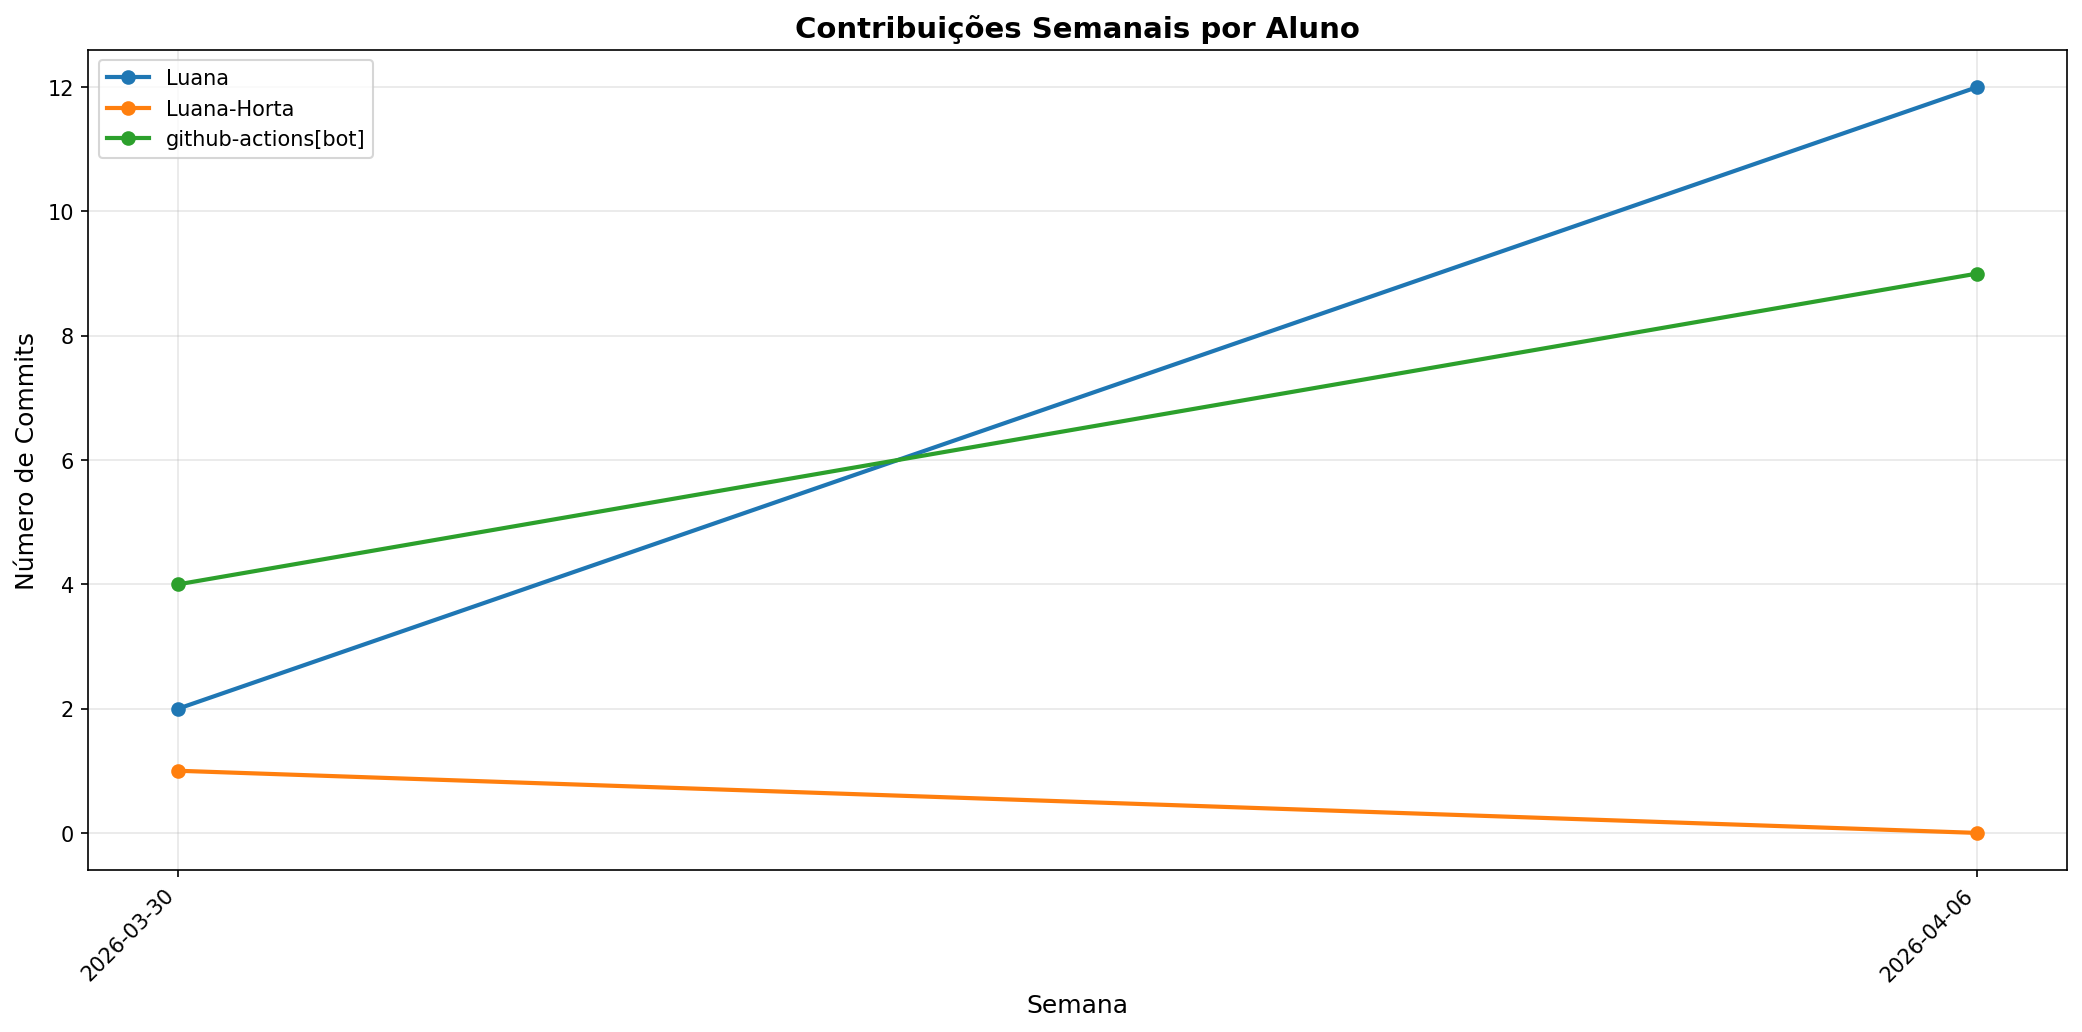
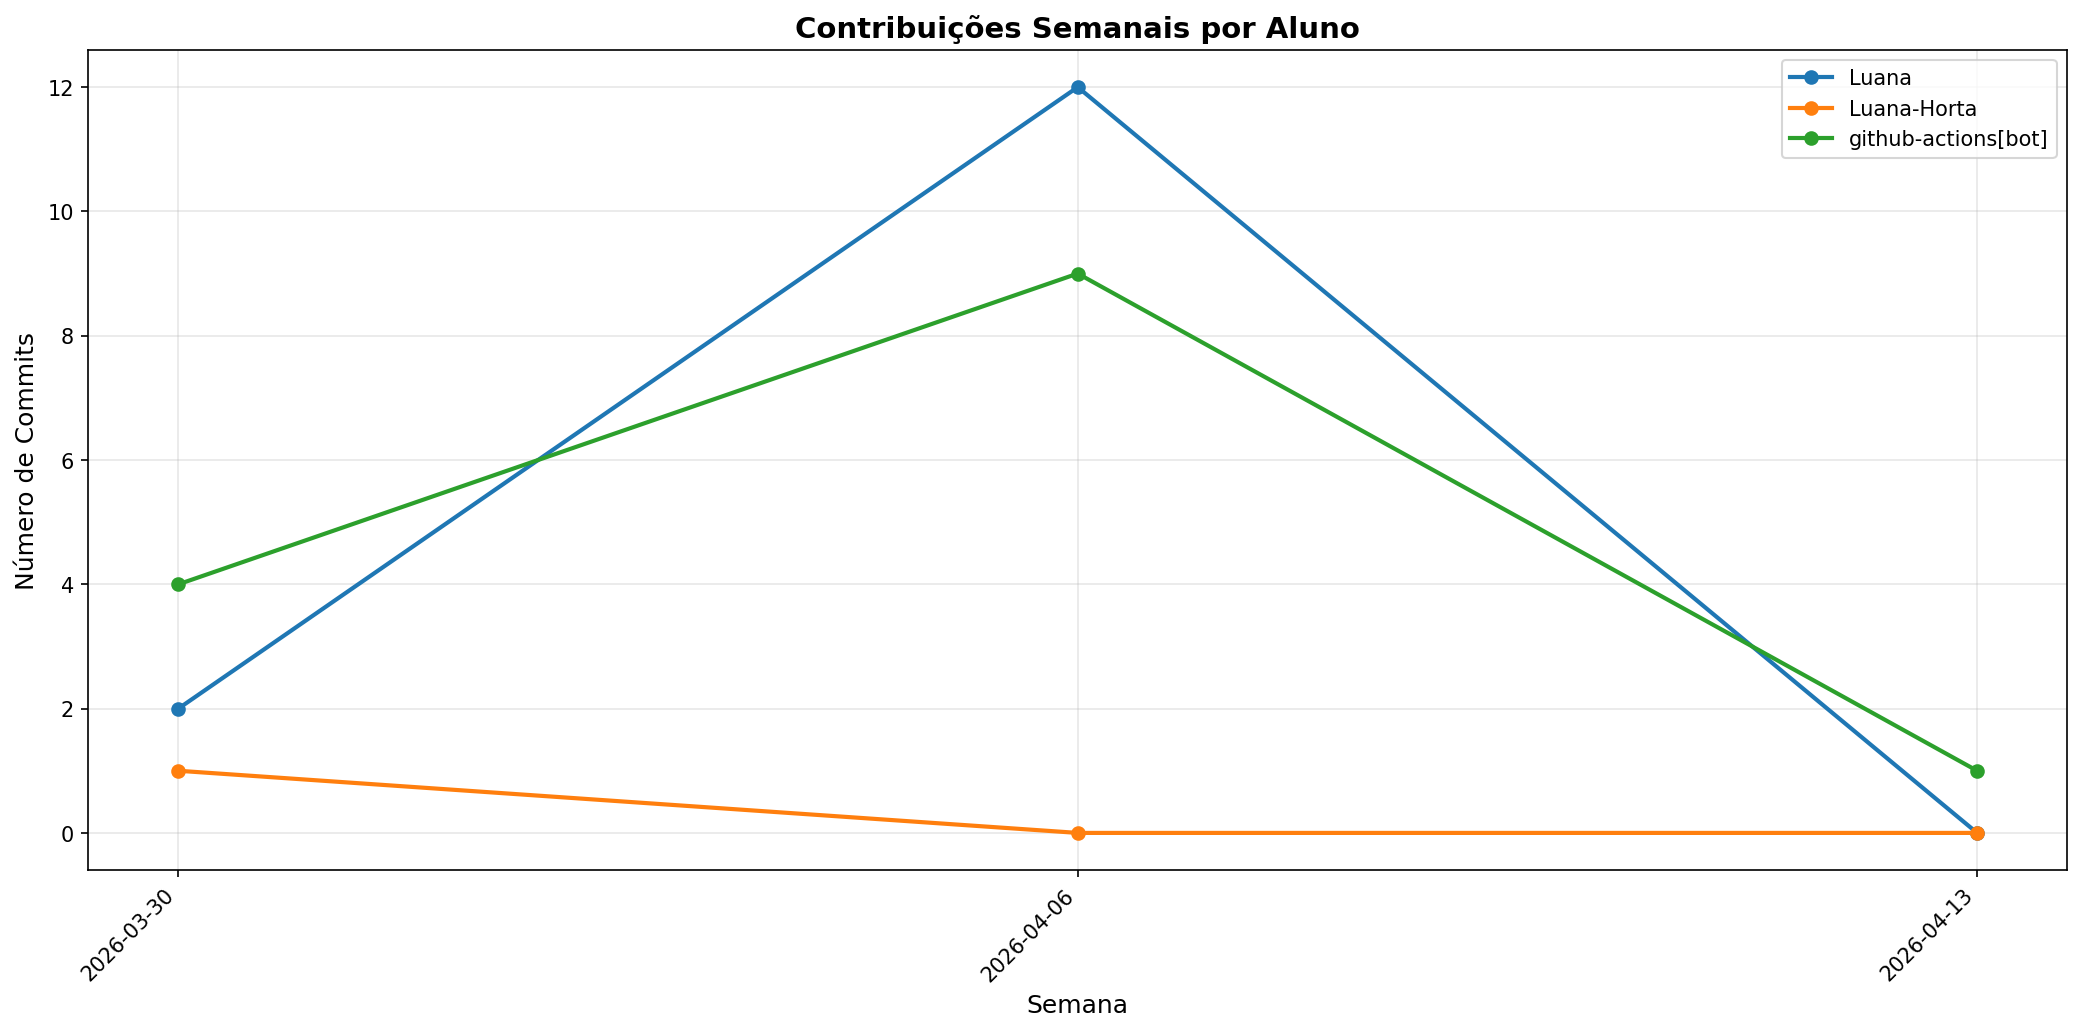
📊 Atualizar relatório de contribuições [skip ci]

diff --git a/docs/CONTRIBUTION_REPORT.md b/docs/CONTRIBUTION_REPORT.md
@@ -1,6 +1,6 @@
 # 📊 Relatório de Contribuições do Projeto
 
-**Última atualização:** 20/04/2026 01:27
+**Última atualização:** 27/04/2026 01:45
 
 ---
 
@@ -10,10 +10,12 @@
 |---------------------|-----------|-----------|-----------|------------|----------------|-----------------|
 | Luana               |        14 |     10988 |      1528 |        307 |              2 |               0 |
 | Luana-Horta         |         1 |      2152 |         0 |         45 |              1 |              13 |
-| github-actions[bot] |        13 |        70 |        81 |          3 |             13 |               1 |
+| github-actions[bot] |        14 |        73 |        84 |          3 |             14 |               1 |
 
 
 ## 📅 Contribuições Semanais (Todo o Semestre)
+
+**2026-04-13**: github-actions[bot]: 1
 
 **2026-04-06**: Luana: 12, github-actions[bot]: 9
 
